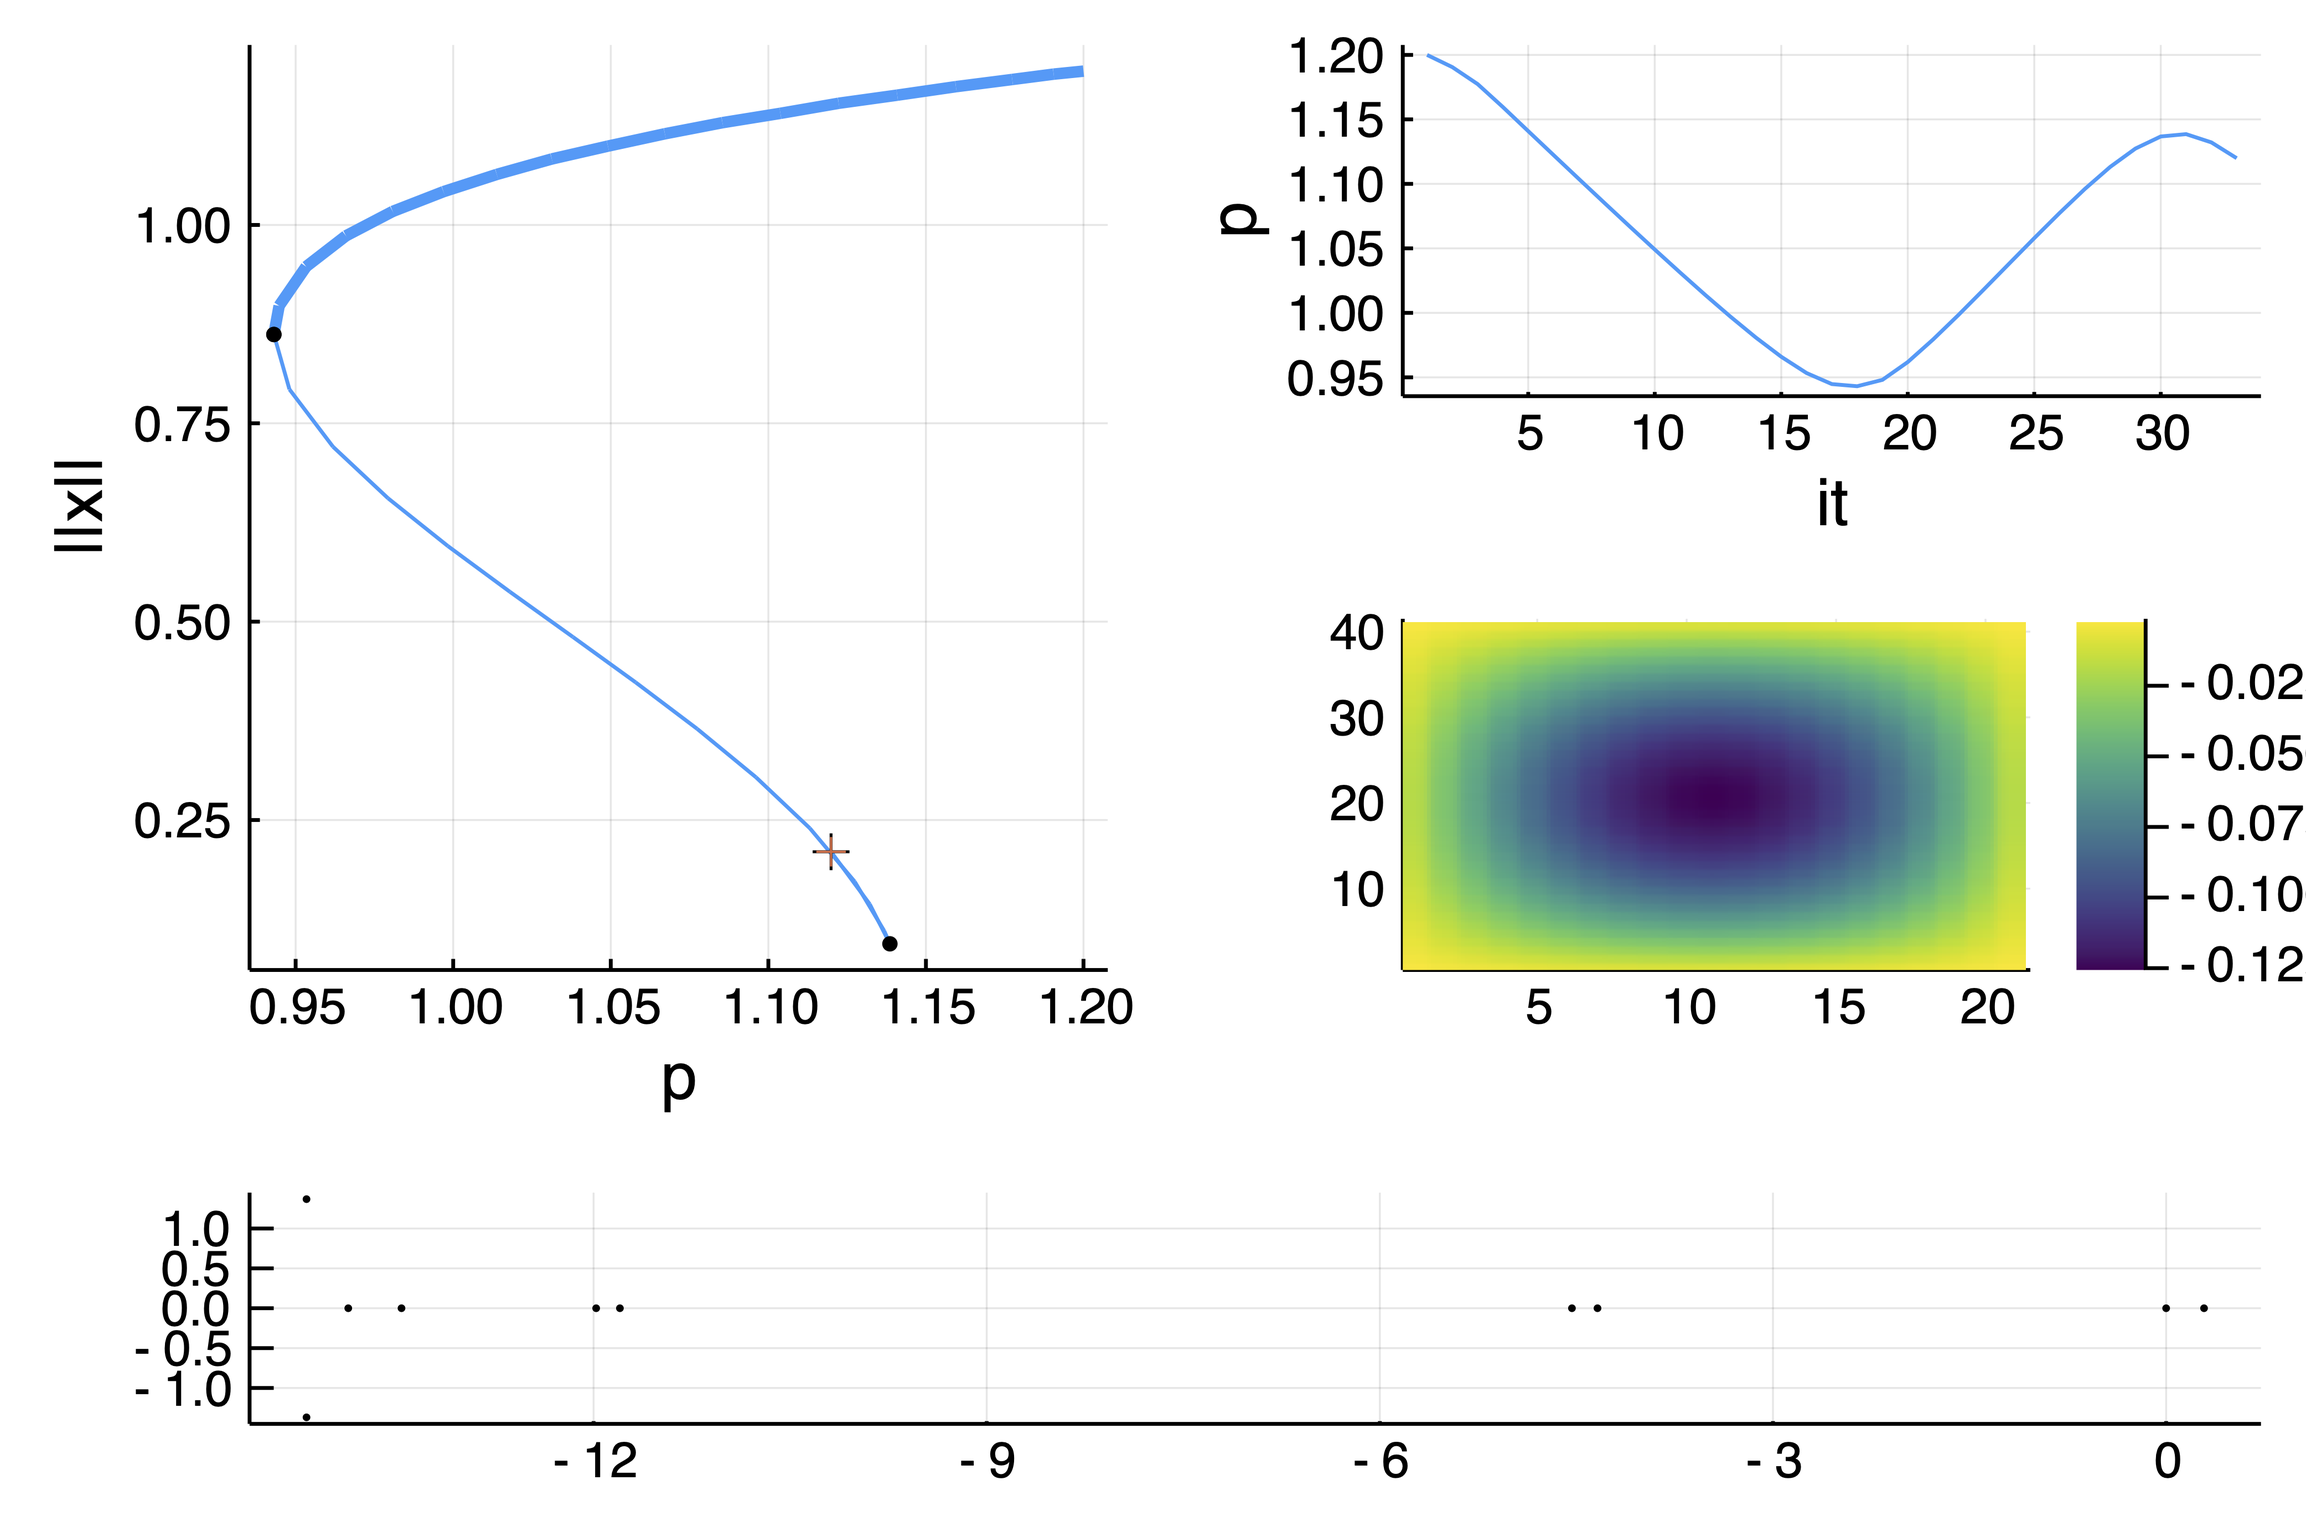
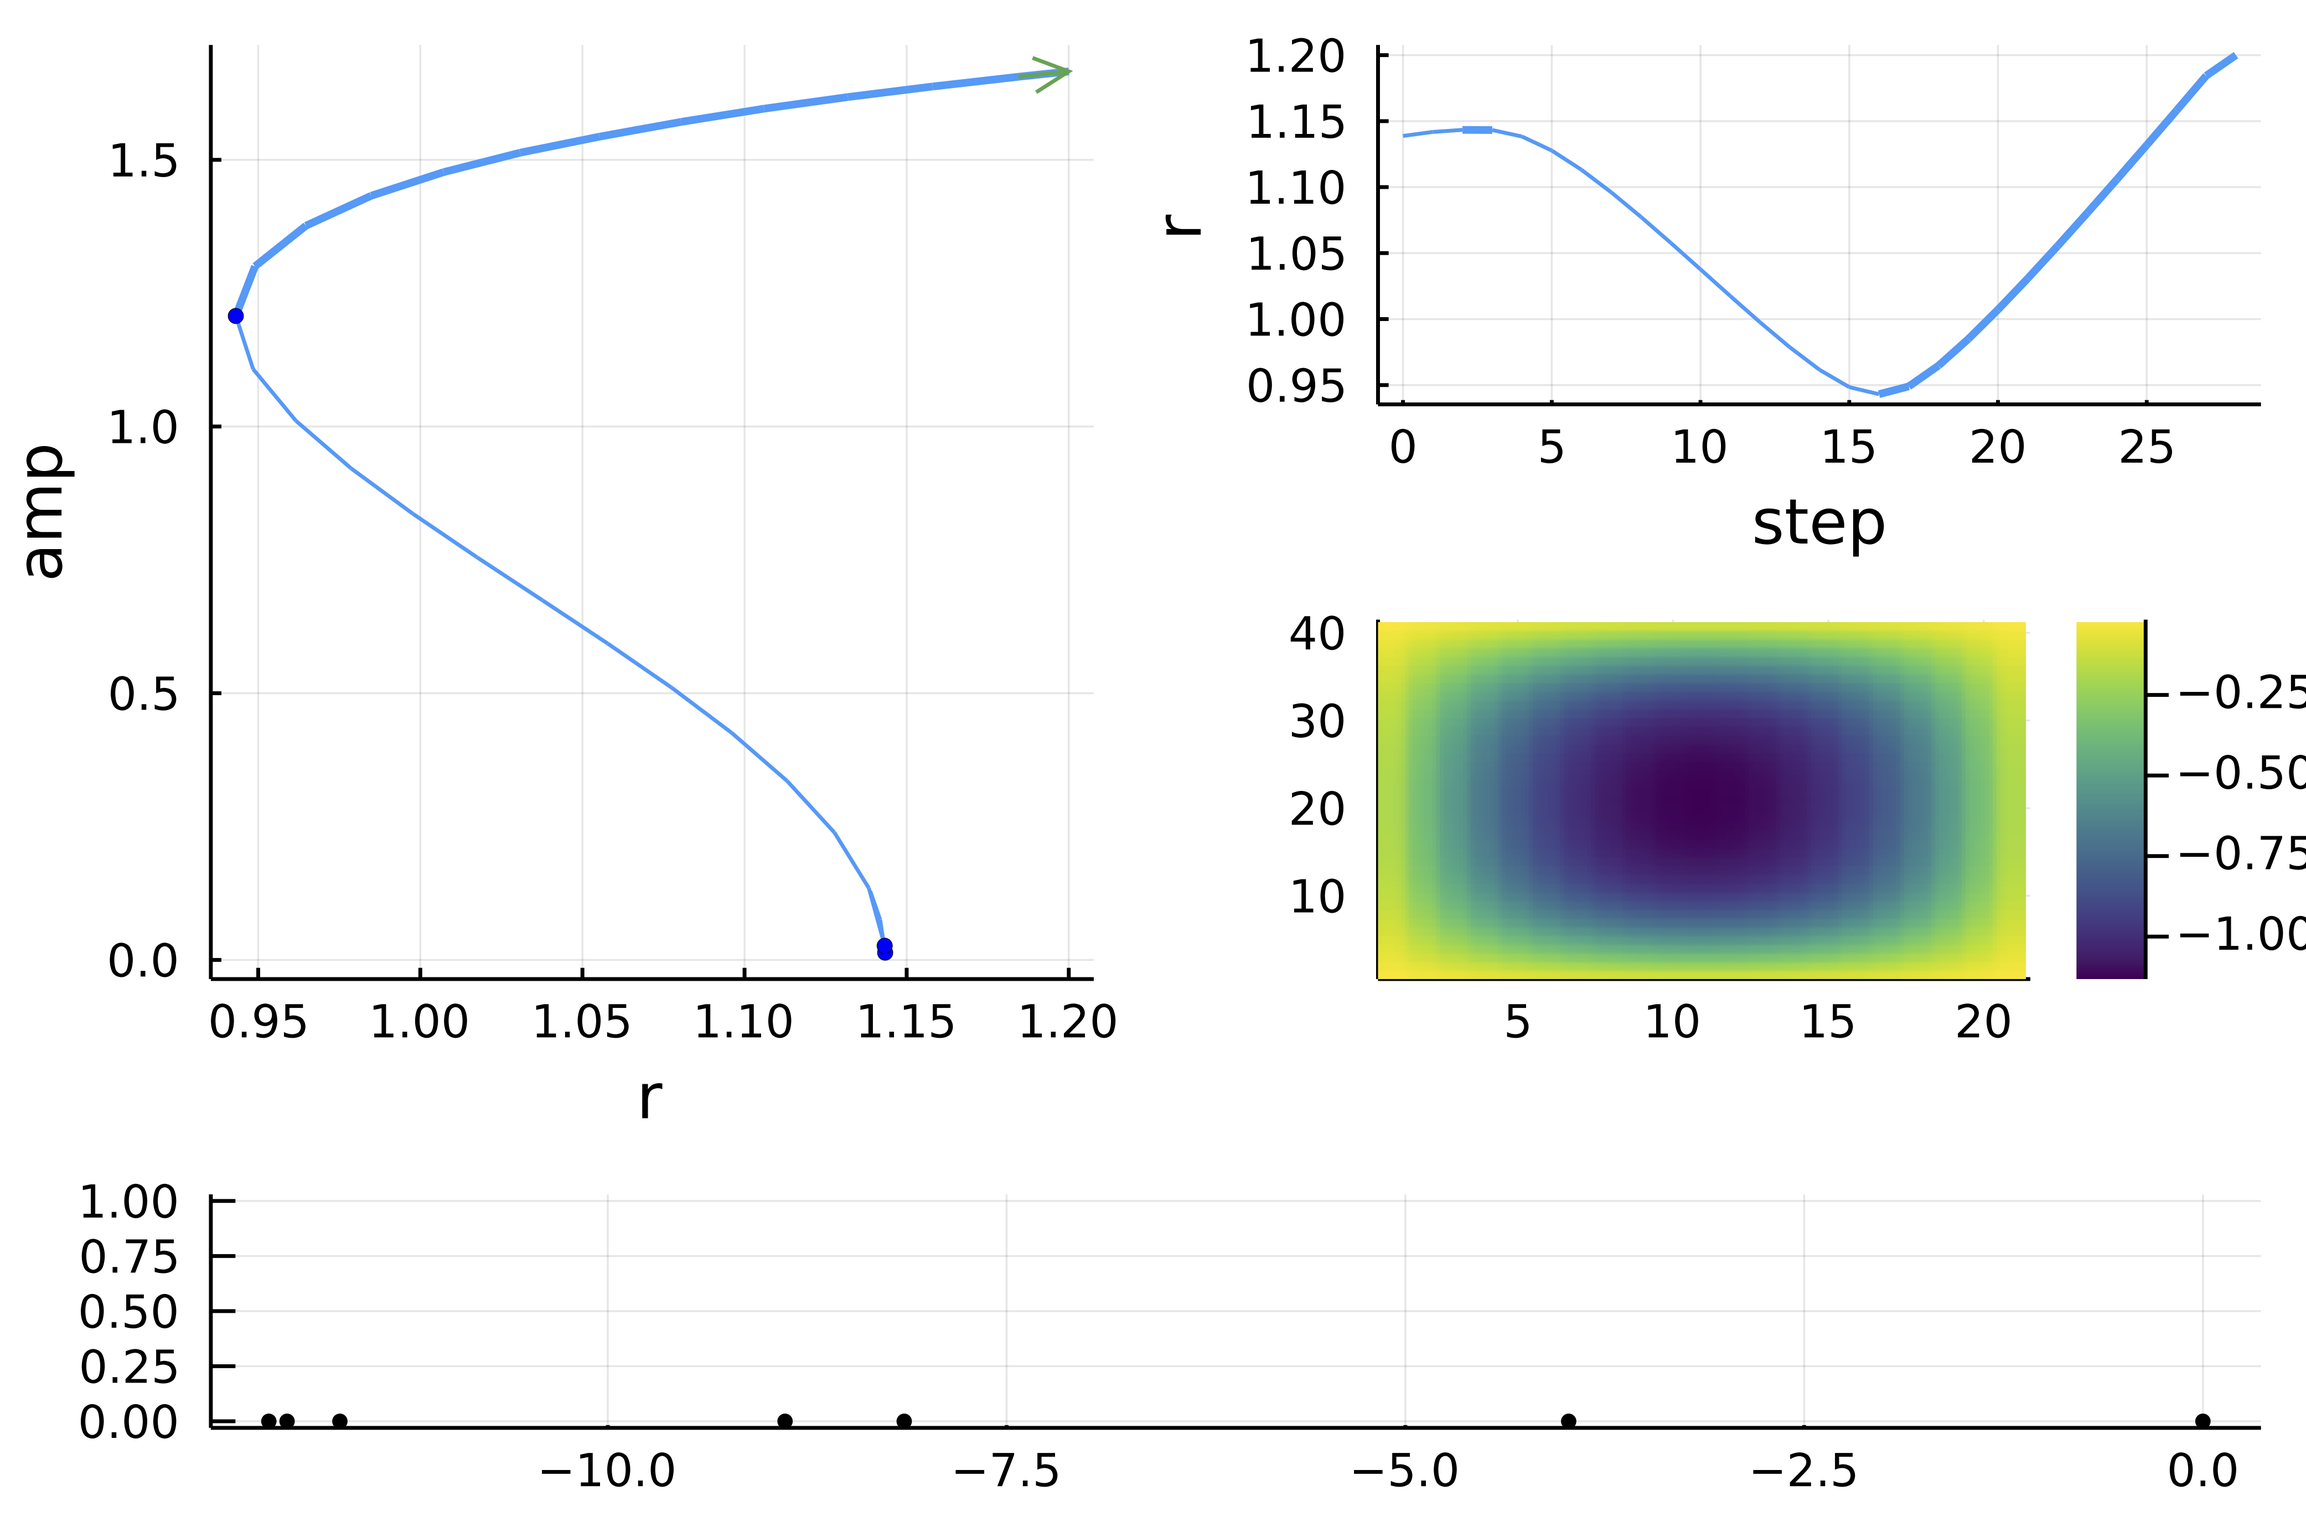
add codim 2 example to cGL
improve tutorials

diff --git a/docs/src/tutorials2b.md b/docs/src/tutorials2b.md
@@ -27,6 +27,24 @@ Hence, to solve the previous equation, only a **few** GMRES iterations are requi
 
 > In effect, the preconditioned PDE is an example of nonlocal problem.
 
+
+## Linear Algebra on the GPU
+
+We plan to use `KrylovKit` on the GPU. We define the following types so it is easier to switch to `Float32` for example:
+
+```julia
+using Revise, CUDA
+
+# this disable slow operations but errors if you use one of them
+CUDA.allowscalar(false)
+
+# type used for the arrays, can be Float32 is GPU requires it
+TY = Float64
+
+# put the AF = Array{TY} instead to make the code on the CPU
+AF = CuArray{TY}
+```
+
 ## Computing the inverse of the differential operator
 The issue now is to compute $L$ but this is easy using Fourier transforms.
 
@@ -38,7 +56,6 @@ $$l_1 = 1+(1-k_x^2-k_y^2)^2$$
 which is pre-computed in the composite type `SHLinearOp `. Then, the effect of `L` on `u` is as simple as `real.(ifft( l1 .* fft(u) ))` and the inverse `L\u` is `real.(ifft( fft(u) ./ l1 ))`. However, in order to save memory on the GPU, we use inplace FFTs to reduce temporaries which explains the following code.
 
 ```julia
-using Revise
 using AbstractFFTs, FFTW, KrylovKit, Setfield, Parameters
 using BifurcationKit, LinearAlgebra, Plots
 const BK = BifurcationKit
@@ -66,25 +83,20 @@ end
 
 import Base: *, \
 
-# action of L
-function *(c::SHLinearOp, u)
+function apply(c::SHLinearOp, u, multiplier, op = *)
 	c.tmp_complex .= Complex.(u)
 	c.fftplan * c.tmp_complex
-	c.tmp_complex .= c.l1 .* c.tmp_complex
+	c.tmp_complex .= op.(c.tmp_complex, multiplier)
 	c.ifftplan * c.tmp_complex
 	c.tmp_real .= real.(c.tmp_complex)
 	return copy(c.tmp_real)
 end
 
+# action of L
+*(c::SHLinearOp, u) = apply(c, u, c.l1)
+
 # inverse of L
-function \(c::SHLinearOp, u)
-	c.tmp_complex .= Complex.(u)
-	c.fftplan * c.tmp_complex
-	c.tmp_complex .=  c.tmp_complex ./ c.l1
-	c.ifftplan * c.tmp_complex
-	c.tmp_real .= real.(c.tmp_complex)
-	return copy(c.tmp_real)
-end
+\(c::SHLinearOp, u) = apply(c, u, c.l1, /)
 ```
 
 Before applying a Newton solver, we need to tell how to solve the linear equation arising in the Newton Algorithm.
@@ -94,7 +106,8 @@ Before applying a Newton solver, we need to tell how to solve the linear equatio
 function (sh::SHLinearOp)(J, rhs; shift = 0., tol =  1e-9)
 	u, l, ν = J
 	udiag = l .+ 1 .+ 2ν .* u .- 3 .* u.^2 .- shift
-	res, info = KrylovKit.linsolve( du -> -du .+ sh \ (udiag .* du), sh \ rhs, tol = tol, maxiter = 6)
+	res, info = KrylovKit.linsolve( du -> -du .+ sh \ (udiag .* du), sh \ rhs, 
+	tol = tol, maxiter = 6)
 	return res, true, info.numops
 end
 ```
@@ -142,24 +155,6 @@ J_shfft(u, p) = (u, p.l, p.ν)
 par = (l = -0.15, ν = 1.3, L = L)
 ```
 
-## Linear Algebra on the GPU
-
-We plan to use `KrylovKit` on the GPU. We define the following types so it is easier to switch to `Float32` for example:
-
-```julia
-using CUDA
-
-# this disable slow operations but errors if you use one of them
-CUDA.allowscalar(false)
-
-# type used for the arrays, can be Float32 is GPU requires it
-TY = Float64
-
-# put the AF = Array{TY} instead to make the code on the CPU
-AF = CuArray{TY}
-```
-
-
 ## Newton iterations and deflation
 
 We are now ready to perform Newton iterations:
@@ -178,21 +173,19 @@ opt_new = NewtonPar(verbose = true, tol = 1e-6, maxIter = 100, linsolver = L)
 You should see this:
 
 ```julia
-Newton Iterations
-   Iterations      Func-count      f(x)      Linear-Iterations
+Newton Iterations      f(x)      Linear Iterations
 
-        0                1     2.7383e-01         0
-        1                2     1.2891e+02        13
-        2                3     3.8139e+01        33
-        3                4     1.0740e+01        23
-        4                5     2.8787e+00        17
-        5                6     7.7522e-01        14
-        6                7     1.9542e-01        12
-        7                8     3.0292e-02        11
-        8                9     1.1594e-03        10
-        9               10     1.8788e-06        10
-       10               11     5.9168e-08         8
-  0.365674 seconds (65.03 k allocations: 1.498 MiB)
+          0          3.3758e-01             0
+          1          8.0152e+01            12
+          2          2.3716e+01            27
+          3          6.7353e+00            22
+          4          1.9498e+00            17
+          5          5.5893e-01            14
+          6          1.0998e-01            12
+          7          1.1381e-02            11
+          8          1.6393e-04            11
+          9          6.7459e-08            10
+  0.317790 seconds (42.67 k allocations: 1.256 MiB)
 --> norm(sol) = 1.26017611779702
 ```
 
@@ -228,13 +221,15 @@ Finally, we can perform continuation of the branches on the GPU:
 
 ```julia
 opts_cont = ContinuationPar(dsmin = 0.001, dsmax = 0.007, ds= -0.005, 
-	pMax = 0.2, pMin = -1.0, theta = 0.5, plotEveryStep = 5, 
+	pMax = 0., pMin = -1.0, theta = 0.5, plotEveryStep = 5, 
 	newtonOptions = setproperties(opt_new; tol = 1e-6, maxIter = 15), maxSteps = 100)
 
 	br, = @time continuation(F_shfft, J_shfft,
 		deflationOp[1], par, (@lens _.l), opts_cont;
-		plot = true,
-		plotSolution = (x, p; kwargs...)->plotsol!(x; color=:viridis, kwargs...), normC = x->maximum(abs.(x)))
+		plot = true, verbosity = 3,
+		plotSolution = (x, p; kwargs...)->plotsol!(x; color=:viridis, kwargs...), 
+		normC = x -> maximum(abs.(x))
+		)
 ```
 
 We did not detail how to compute the eigenvalues on the GPU and detect the bifurcations. It is based on a simple Shift-Invert strategy, please look at `examples/SH2d-fronts-cuda.jl`.

diff --git a/docs/src/tutorialsCGL.md b/docs/src/tutorialsCGL.md
@@ -18,7 +18,7 @@ Note that we try to be pedagogical here. Hence, we may write "bad" code that we 
 
 The equations are as follows
 
-$$\partial_{t} u=\Delta u+(r+\mathrm{i} v) u-\left(c_{3}+\mathrm{i} \mu\right)|u|^{2} u-c_{5}|u|^{4} u, \quad u=u(t, x) \in \mathbb{C}$$
+$$\partial_{t} u=\Delta u+(r+\mathrm{i} v) u-\left(c_{3}+\mathrm{i} \mu\right)|u|^{2} u-c_{5}|u|^{4} u+\gamma, \quad u=u(t, x) \in \mathbb{C},\quad \gamma\in\mathbb R$$
 
 with Dirichlet boundary conditions. We discretize the square $\Omega = (0,L_x)\times(0,L_y)$ with $2N_xN_y$ points. We start by writing the Laplacian:
 
@@ -51,7 +51,7 @@ It is then straightforward to write the vector field
 ```julia
 # this encodes the nonlinearity
 function NL(u, p)
-	@unpack r, μ, ν, c3, c5 = p
+	@unpack r, μ, ν, c3, c5, γ = p
 	n = div(length(u), 2)
 	u1 = @view u[1:n]
 	u2 = @view u[n+1:2n]
@@ -62,7 +62,7 @@ function NL(u, p)
 	f1 = @view f[1:n]
 	f2 = @view f[n+1:2n]
 
-	@. f1 .= r * u1 - ν * u2 - ua * (c3 * u1 - μ * u2) - c5 * ua^2 * u1
+	@. f1 .= r * u1 - ν * u2 - ua * (c3 * u1 - μ * u2) - c5 * ua^2 * u1 + γ
 	@. f2 .= r * u2 + ν * u1 - ua * (c3 * u2 + μ * u1) - c5 * ua^2 * u2
 
 	return f
@@ -113,7 +113,7 @@ lx = pi
 ly = pi/2
 
 Δ = Laplacian2D(Nx, Ny, lx, ly)
-par_cgl = (r = 0.5, μ = 0.1, ν = 1.0, c3 = -1.0, c5 = 1.0, Δ = blockdiag(Δ, Δ))
+par_cgl = (r = 0.5, μ = 0.1, ν = 1.0, c3 = -1.0, c5 = 1.0, Δ = blockdiag(Δ, Δ), γ = 0.)
 sol0 = zeros(2Nx, Ny)
 ```
 
@@ -138,6 +138,8 @@ Bifurcation points:
 - #  1,  hopf at p ≈ +1.14777610 ∈ (+1.14766562, +1.14777610), |δp|=1e-04, [converged], δ = ( 2,  2), step =  94, eigenelements in eig[ 95], ind_ev =   2
 - #  2,  hopf at p ≈ +1.86107007 ∈ (+1.86018618, +1.86107007), |δp|=9e-04, [converged], δ = ( 2,  2), step = 195, eigenelements in eig[196], ind_ev =   4
 ```
+
+and (with `plot(br, ylims=(-0.1,0.1))`) 
 
 ![](cgl2d-bif.png)
 
@@ -168,6 +170,33 @@ Normal form: (a = 0.9999993843742166 + 7.024438596095504e-9im, b = 0.00487012987
 ```
 
 So the Hopf branch is subcritical.
+
+## Codim 2 Hopf continuation
+
+Having detected 2 hopf bifurcation points, we now continue them in the plane $(\gamma, r)$. To speed things up, we need an analytical version of the second derivative which works on complex inputs. This is not readily supported by `ForwardDiff.jl` but the package `BifurcationKit.jl` provides a way to by pass this difficulty:
+
+```julia
+d2Fc =(x,p,dx1,dx2) -> BK.BilinearMap((_dx1, _dx2) -> d2Fcgl(x,p,_dx1,_dx2))(dx1,dx2)
+```
+
+Before, we start the codim 2 continuation, we tell `BifurcationKit.jl` to use the spectral information `startWithEigen = true` because the left eigenvector of the Jacobian is simply not the conjugate of the right one.
+
+```julia
+# we perform Hopf continuation of the first Hopf point in br
+ind_hopf = 1
+br_hopf, u1_hopf = @time continuation(
+	Fcgl, Jcgl,
+	br, ind_hopf, (@lens _.γ),
+	ContinuationPar(dsmin = 0.001, dsmax = 0.05, ds= -0.01, pMax = 0.6, pMin = -0.6, newtonOptions = opts_br.newtonOptions, plotEveryStep = 5); plot = true,
+	updateMinAugEveryStep = 1,
+	d2F = d2Fc,
+	startWithEigen = true, bothside = true,
+	verbosity = 3, normC = norminf)
+
+plot(br_hopf, title = "Hopf continuation")
+```
+
+![](cGL-codim2-hopf.png)
 
 ## Periodic orbits continuation with stability
 Having found two Hopf bifurcation points, we aim at computing the periodic orbits branching from them. Like for the Brusselator example, we need to find some educated guess for the periodic orbits in order to have a successful Newton call.

diff --git a/docs/src/tutorialsCGLShoot.md b/docs/src/tutorialsCGLShoot.md
@@ -56,20 +56,13 @@ function NL!(f, u, p, t = 0.)
 	return f
 end
 
-function NL(u, p)
-	out = similar(u)
-	NL!(out, u, p)
-end
-
 function Fcgl!(f, u, p, t = 0.)
 	mul!(f, p.Δ, u)
 	f .= f .+ NL(u, p)
 end
 
-function Fcgl(u, p, t = 0.)
-	f = similar(u)
-	Fcgl!(f, u, p, t)
-end
+NL(u, p) = NL!(similar(u), u, p)
+Fcgl(u, p, t = 0.) = Fcgl!(similar(u), u, p, t)
 
 function Jcgl(u, p, t = 0.)
 	@unpack r, μ, ν, c3, c5, Δ = p
@@ -154,7 +147,7 @@ We define the linear solvers to be use by the (Matrix-Free) shooting method
 ls = GMRESIterativeSolvers(reltol = 1e-4, maxiter = 50, verbose = false)
 eig = EigKrylovKit(tol = 1e-7, x₀ = rand(2Nx*Ny), verbose = 2, dim = 40)
 optn = NewtonPar(verbose = true, tol = 1e-9,  maxIter = 25, linsolver = ls, eigsolver = eig)
-opts_po_cont = ContinuationPar(dsmin = 0.001, dsmax = 0.02, ds= -0.01, pMax = 2.5, maxSteps = 32, newtonOptions = optn, nev = 15, precisionStability = 1e-3, detectBifurcation = 3, plotEveryStep = 1)
+opts_po_cont = ContinuationPar(dsmin = 0.001, dsmax = 0.02, ds= 0.01, pMax = 2.5, maxSteps = 32, newtonOptions = optn, nev = 7, precisionStability = 1e-3, detectBifurcation = 3, plotEveryStep = 1)
 ```
 
 as
@@ -177,6 +170,10 @@ br_po, = continuation(
 	ampfactor = 1.5, δp = 0.01,
 	# regular parameters for the continuation
 	verbosity = 3, plot = true,
+	# a few parameters saved during run
+	printSolution = (u, p) -> (amp = BK.getAmplitude(p.prob, u, (@set par_cgl.r = p.p)), period = u[end]),
+	# plotting of a section
+	plotSolution = (x, p; k...) -> heatmap!(reshape(x[1:Nx*Ny], Nx, Ny); color=:viridis, k...),
 	# print the Floquet exponent
 	finaliseSolution = (z, tau, step, contResult; k...) ->
 		(Base.display(contResult.eig[end].eigenvals) ;true),

diff --git a/docs/src/tutorials3.md b/docs/src/tutorials3.md
@@ -179,12 +179,14 @@ which produces
 We now perform a Hopf continuation with respect to the parameters `l, β`
 
 !!! tip "Tip"
-    You don't need to call `newtonHopf` first in order to use `continuationHopf`.
+    You don't need to call `newton` first in order to use `continuation`.
 
 ```julia
+optcdim2 = ContinuationPar(dsmin = 0.001, dsmax = 0.05, ds= 0.01, pMax = 6.5, pMin = 0.0, newtonOptions = opt_newton)
 br_hopf, = @time continuation(Fbru, Jbru_sp,
 	br, ind_hopf, (@lens _.β),
-	ContinuationPar(dsmin = 0.001, dsmax = 0.05, ds= 0.01, pMax = 6.5, pMin = 0.0, newtonOptions = opt_newton), verbosity = 2, normC = norminf)
+	optcdim2, verbosity = 2, 
+	normC = norminf)
 ```
 
 which gives using `plot(br_hopf)`

diff --git a/docs/src/tutorials3b.md b/docs/src/tutorials3b.md
@@ -180,12 +180,14 @@ which produces
 We now perform a Hopf continuation with respect to the parameters `l, β`
 
 !!! tip "Tip"
-    You don't need to call `newtonHopf` first in order to use `continuationHopf`.
+    You don't need to call `newton` first in order to use `continuation`.
 
 ```julia
+optcdim2 = ContinuationPar(dsmin = 0.001, dsmax = 0.05, ds= 0.01, pMax = 6.5, pMin = 0.0, newtonOptions = opt_newton)
 br_hopf, = @time continuation(Fbru, Jbru_sp,
 	br, ind_hopf, (@lens _.β),
-	ContinuationPar(dsmin = 0.001, dsmax = 0.05, ds= 0.01, pMax = 6.5, pMin = 0.0, newtonOptions = opt_newton), verbosity = 2, normC = norminf)
+	optcdim2, verbosity = 2, 
+	normC = norminf)
 ```
 
 which gives using `plot(br_hopf)`

diff --git a/docs/src/faq.md b/docs/src/faq.md
@@ -60,3 +60,7 @@ end
 ### How do I stop `continuation`?
 
 Using the argument `finaliseSolution` in `continuation`. Simply make this function `finaliseSolution` return false.
+
+### How do I compute both sides of a branch?
+
+Instead of using two calls to `continuation`, you can pass the keyword `bothside=true` to `continuation`
